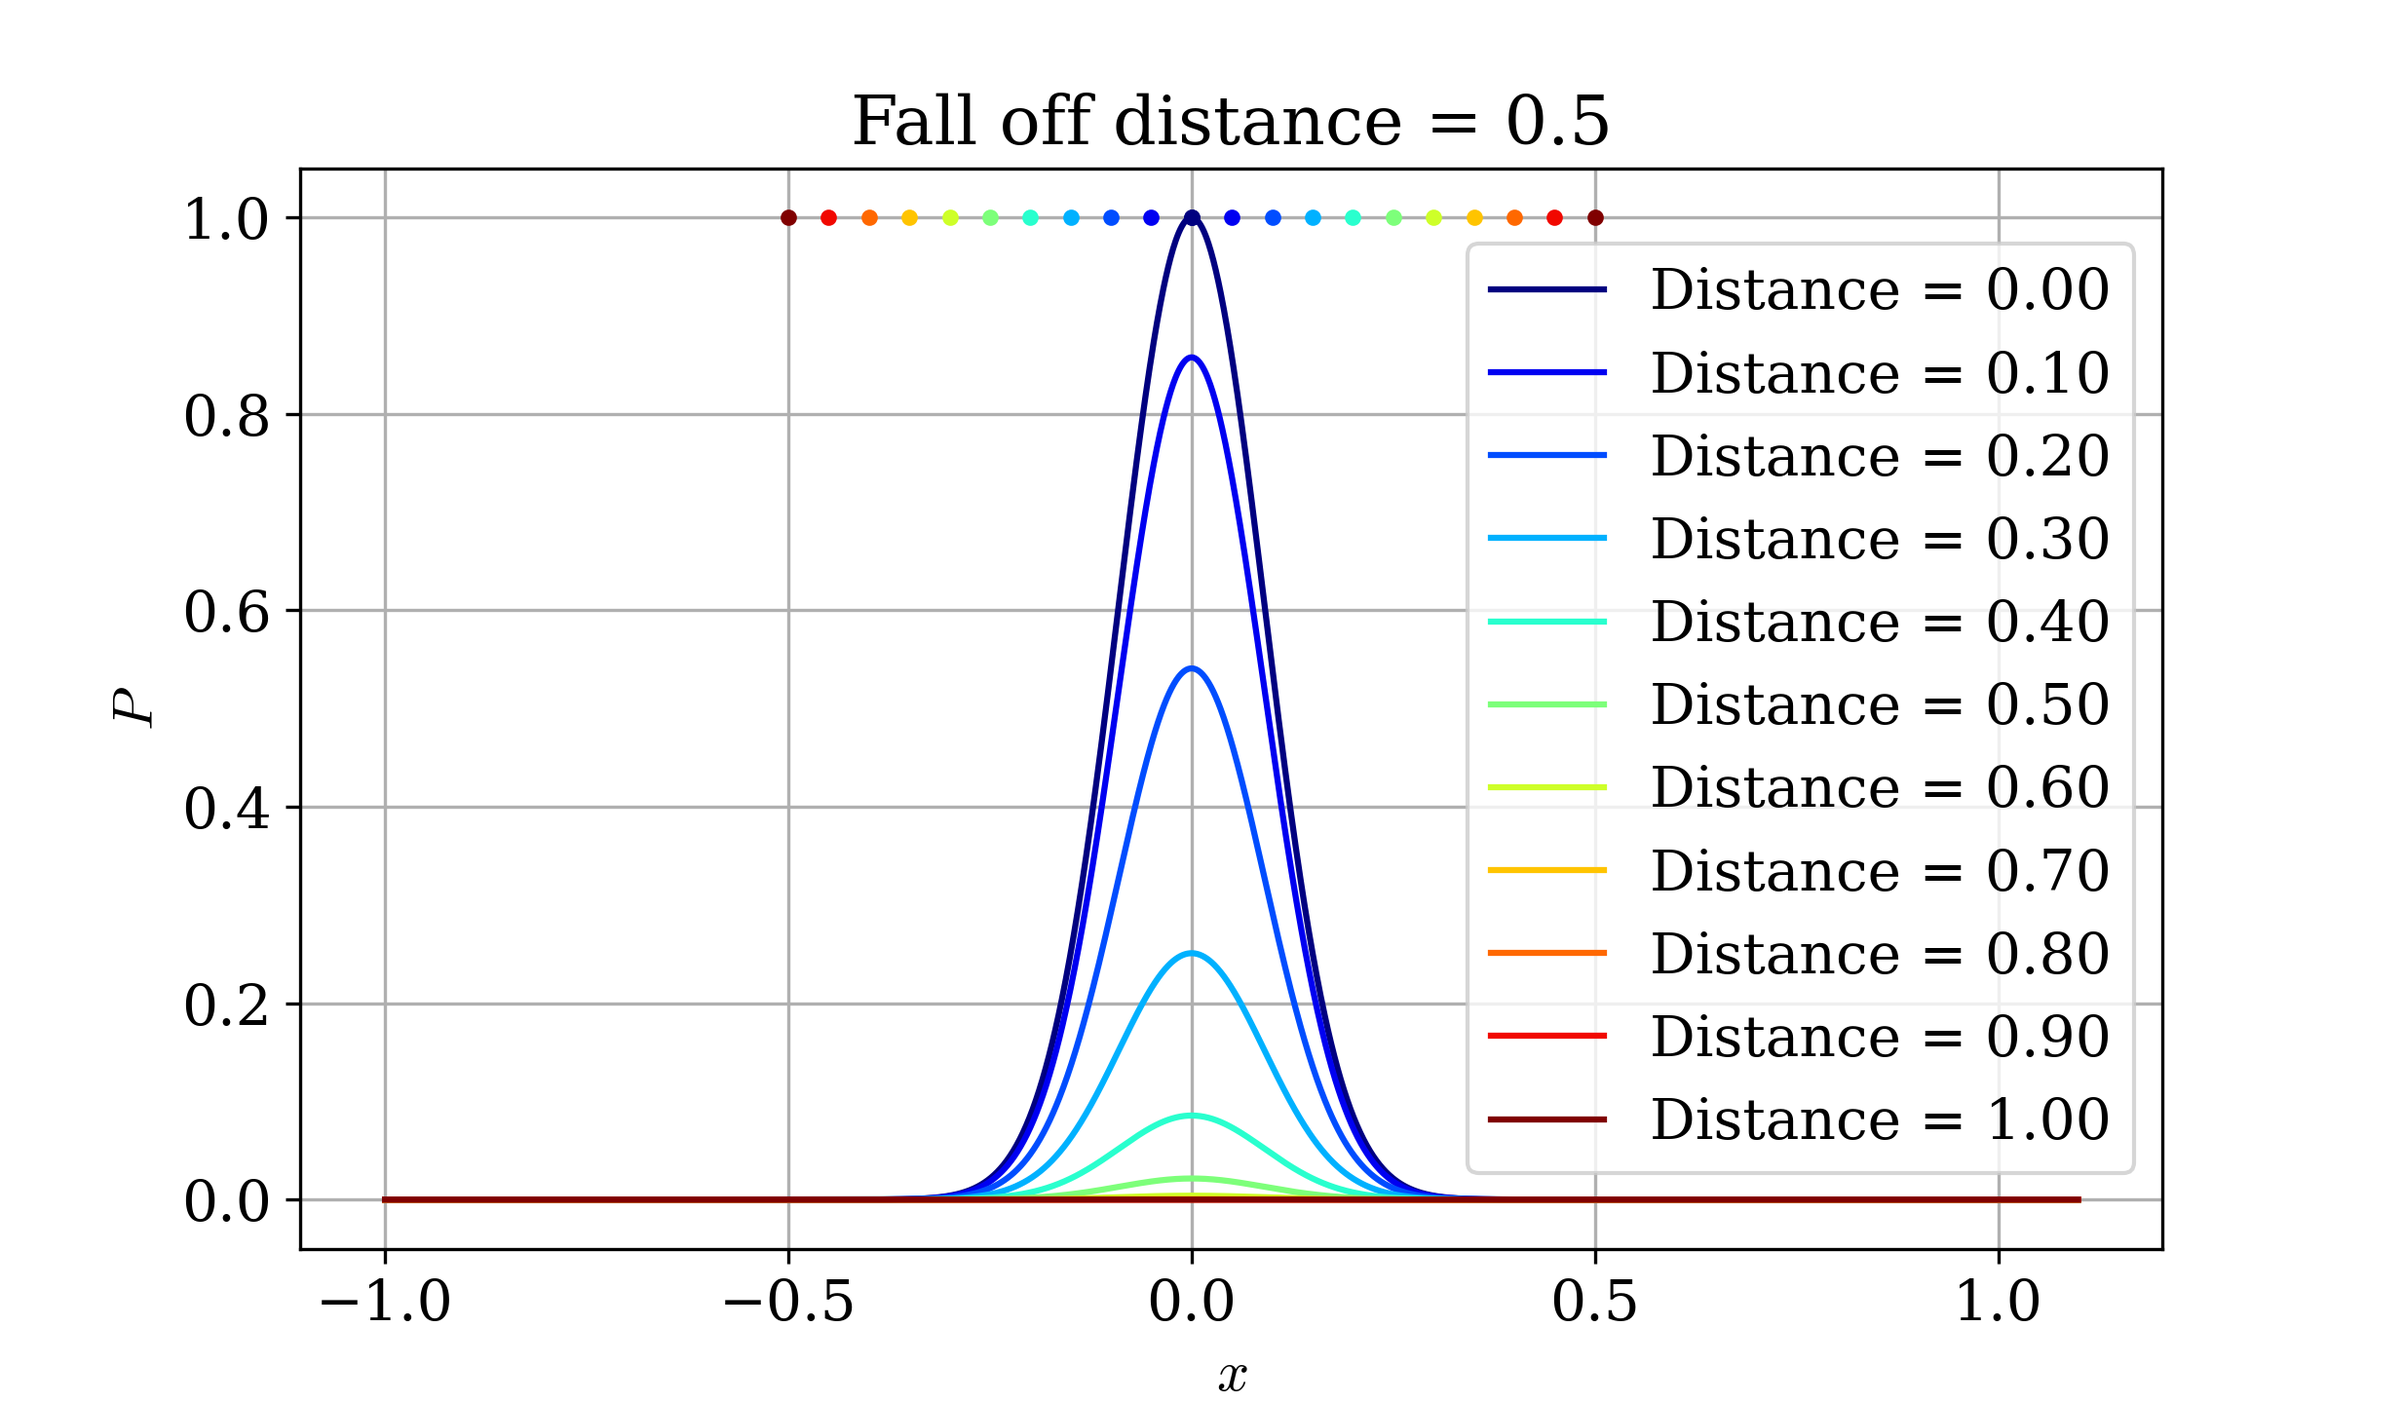
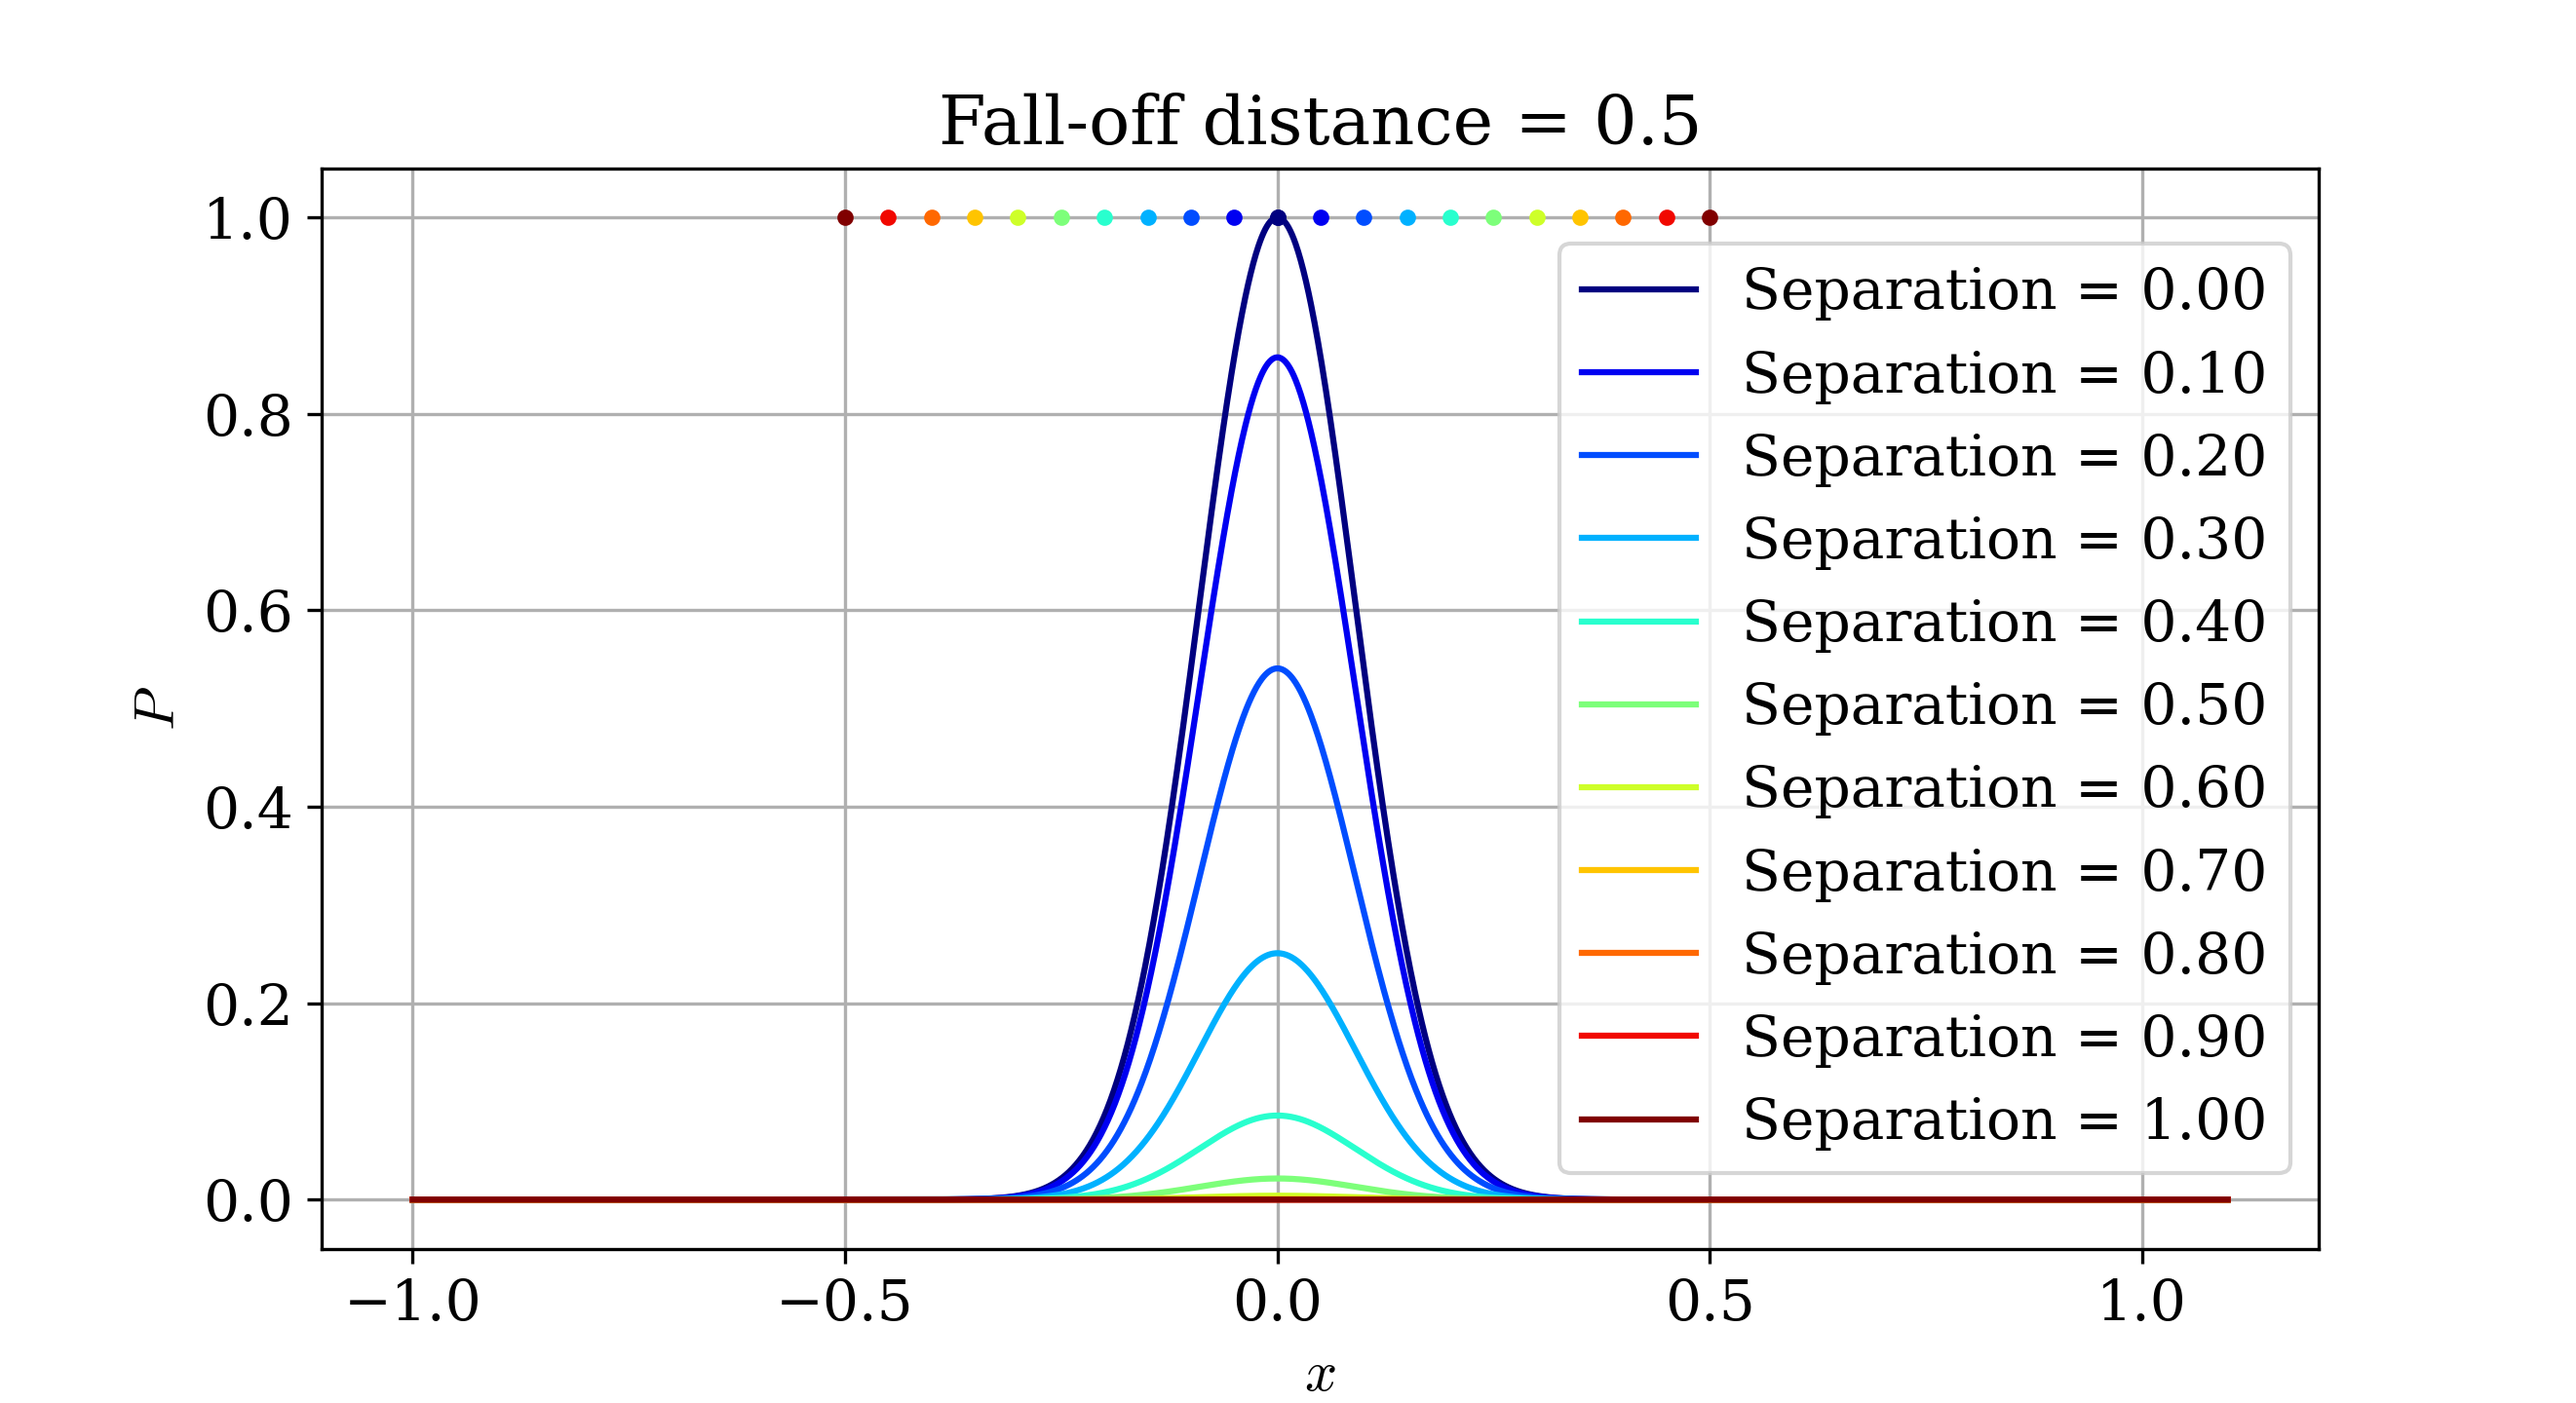
updated figure

diff --git a/test.py b/test.py
@@ -86,12 +86,12 @@ x_plot=np.arange(-1,1.1,0.001)
 ctr=0
 for d in dist_plot:
     prob_plot=probability(x_plot-d/2,x_plot+d/2, fall_off)
-    plt.plot(x_plot,prob_plot,color=colors[ctr],label=f'Distance = {d:.2f}')
+    plt.plot(x_plot,prob_plot,color=colors[ctr],label=f'Separation = {d:.2f}')
     plt.plot(-d/2,1,'.',color=colors[ctr])
     plt.plot(d/2,1,'.',color=colors[ctr])
 
     ctr+=1
-plt.title(f'Fall off distance = {fall_off}')
+plt.title(f'Fall-off distance = {fall_off}')
 plt.xlabel('$x$')
 plt.ylabel('$P$')
 plt.grid()
